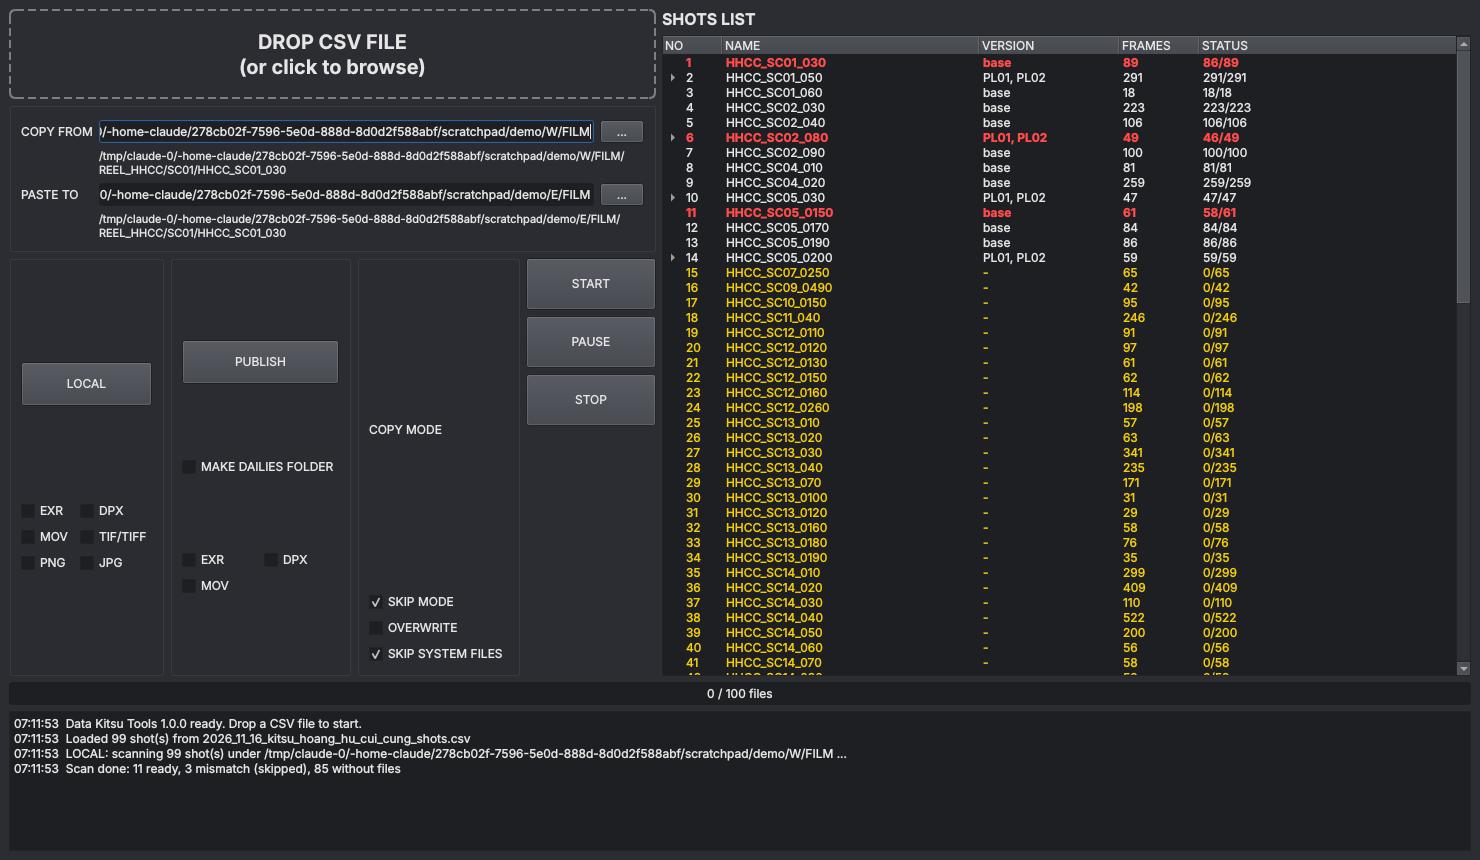
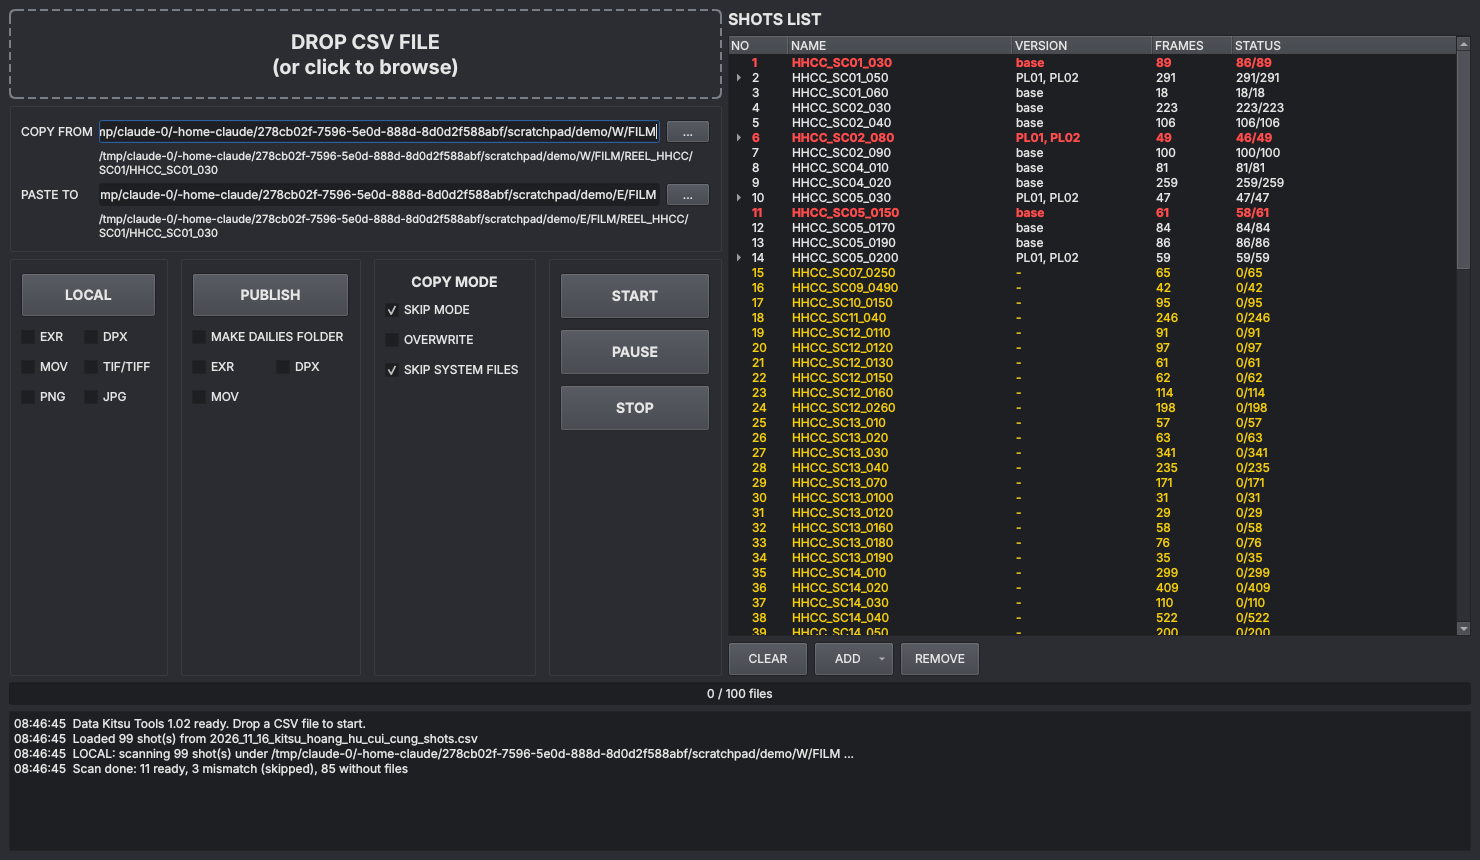
Version 1.02: shot list buttons, context menu, aligned controls
Claude-Session: https://claude.ai/code/session_011SLvPhLiND6NqdJ4XBPJJz

diff --git a/data_kitsu_tools.py b/data_kitsu_tools.py
@@ -27,17 +27,17 @@ from concurrent.futures import ThreadPoolExecutor, as_completed
 from dataclasses import dataclass, field
 from pathlib import Path
 
-from PySide6.QtCore import Qt, QThread, Signal
-from PySide6.QtGui import QBrush, QColor, QPalette
+from PySide6.QtCore import Qt, QThread, QUrl, Signal
+from PySide6.QtGui import QBrush, QColor, QDesktopServices, QPalette
 from PySide6.QtWidgets import (
     QAbstractItemView, QApplication, QCheckBox, QFileDialog, QFrame,
     QGridLayout, QGroupBox, QHBoxLayout, QHeaderView, QLabel, QLineEdit,
     QMainWindow, QMessageBox, QPlainTextEdit, QProgressBar, QPushButton,
-    QTreeWidget, QTreeWidgetItem, QVBoxLayout, QWidget,
+    QTreeWidget, QTreeWidgetItem, QVBoxLayout, QWidget, QMenu, QInputDialog,
 )
 
 APP_NAME = "Data Kitsu Tools"
-APP_VERSION = "1.01"
+APP_VERSION = "1.02"
 
 BUFFER_SIZE = 8 * 1024 * 1024   # 8 MB chunks: fewer, larger I/O calls
 MAX_WORKERS = 4                 # parallel file copies per shot
@@ -70,6 +70,8 @@ C_GREY = "#8a8f98"
 C_ORANGE = "#ff9f43"
 
 COLUMNS = 5
+ROLE_INDEX = int(Qt.ItemDataRole.UserRole) + 1   # shot index stored on top rows
+ROLE_PATH = int(Qt.ItemDataRole.UserRole) + 2    # folder path stored on variant rows
 
 
 # ----------------------------------------------------------------------------
@@ -556,6 +558,13 @@ class DropZone(QFrame):
 class ShotTree(QTreeWidget):
     """SHOTS LIST. Accepts dropped folders (new shots) and CSV files (more shots)."""
     dropped = Signal(list)
+    deletePressed = Signal()
+
+    def keyPressEvent(self, event):
+        if event.key() == Qt.Key.Key_Delete:
+            self.deletePressed.emit()
+            return
+        super().keyPressEvent(event)
 
     def __init__(self):
         super().__init__()
@@ -641,35 +650,42 @@ class MainWindow(QMainWindow):
         self.paste_btn.clicked.connect(lambda: self.browse_dir(self.paste_edit))
 
         row = QHBoxLayout()
+        row.setSpacing(12)
         left.addLayout(row)
 
         # LOCAL box
         local_box = QGroupBox()
         lv = QVBoxLayout(local_box)
-        self.btn_local = QPushButton("LOCAL")
-        self.btn_local.setMinimumHeight(44)
+        lv.setSpacing(10)
+        self.btn_local = self._mode_button("LOCAL")
         self.btn_local.clicked.connect(lambda: self.start_scan(MODE_LOCAL))
         lv.addWidget(self.btn_local)
         self.local_checks = self._type_checks(LOCAL_TYPE_KEYS, lv)
-        row.addWidget(local_box)
+        lv.addStretch(1)
+        row.addWidget(local_box, 1)
 
         # PUBLISH box
         publish_box = QGroupBox()
         pv = QVBoxLayout(publish_box)
-        self.btn_publish = QPushButton("PUBLISH")
-        self.btn_publish.setMinimumHeight(44)
+        pv.setSpacing(10)
+        self.btn_publish = self._mode_button("PUBLISH")
         self.btn_publish.clicked.connect(lambda: self.start_scan(MODE_PUBLISH))
         pv.addWidget(self.btn_publish)
         self.chk_dailies = QCheckBox("MAKE DAILIES FOLDER")
         self.chk_dailies.toggled.connect(self._update_previews)
         pv.addWidget(self.chk_dailies)
         self.publish_checks = self._type_checks(PUBLISH_TYPE_KEYS, pv)
-        row.addWidget(publish_box)
+        pv.addStretch(1)
+        row.addWidget(publish_box, 1)
 
         # COPY MODE box
         mode_box = QGroupBox()
         mv = QVBoxLayout(mode_box)
-        mv.addWidget(QLabel("COPY MODE"))
+        mv.setSpacing(10)
+        mode_title = QLabel("COPY MODE")
+        mode_title.setAlignment(Qt.AlignmentFlag.AlignCenter)
+        mode_title.setStyleSheet("font-size: 14px; font-weight: bold;")
+        mv.addWidget(mode_title)
         self.chk_skip = QCheckBox("SKIP MODE")
         self.chk_skip.setChecked(True)
         self.chk_overwrite = QCheckBox("OVERWRITE")
@@ -678,20 +694,22 @@ class MainWindow(QMainWindow):
         mv.addWidget(self.chk_skip)
         mv.addWidget(self.chk_overwrite)
         mv.addWidget(self.chk_skip_sys)
+        mv.addStretch(1)
         self.chk_skip.toggled.connect(self._on_skip_toggled)
         self.chk_overwrite.toggled.connect(self._on_overwrite_toggled)
-        row.addWidget(mode_box)
+        row.addWidget(mode_box, 1)
 
-        # Action buttons
-        actions = QVBoxLayout()
-        self.btn_start = QPushButton("START")
-        self.btn_pause = QPushButton("PAUSE")
-        self.btn_stop = QPushButton("STOP")
+        # Action buttons: same size, stacked in one box
+        actions_box = QGroupBox()
+        av = QVBoxLayout(actions_box)
+        av.setSpacing(10)
+        self.btn_start = self._action_button("START")
+        self.btn_pause = self._action_button("PAUSE")
+        self.btn_stop = self._action_button("STOP")
         for b in (self.btn_start, self.btn_pause, self.btn_stop):
-            b.setMinimumSize(130, 52)
-            actions.addWidget(b)
-        actions.addStretch(1)
-        row.addLayout(actions)
+            av.addWidget(b)
+        av.addStretch(1)
+        row.addWidget(actions_box, 0)
         self.btn_start.clicked.connect(self.on_start)
         self.btn_pause.clicked.connect(self.on_pause)
         self.btn_stop.clicked.connect(self.on_stop)
@@ -721,6 +739,26 @@ class MainWindow(QMainWindow):
         self.tree.setColumnWidth(4, 120)
         right.addWidget(self.tree, 1)
 
+        tree_buttons = QHBoxLayout()
+        self.btn_clear = QPushButton("CLEAR")
+        self.btn_clear.clicked.connect(self.clear_shots)
+        self.btn_add = QPushButton("ADD")
+        add_menu = QMenu(self.btn_add)
+        add_menu.addAction("Add shot folder...", self.add_folder_shot)
+        add_menu.addAction("Add shot by name...", self.add_named_shot)
+        self.btn_add.setMenu(add_menu)
+        self.btn_remove = QPushButton("REMOVE")
+        self.btn_remove.clicked.connect(self.remove_selected)
+        for b in (self.btn_clear, self.btn_add, self.btn_remove):
+            b.setMinimumHeight(34)
+            tree_buttons.addWidget(b)
+        tree_buttons.addStretch(1)
+        right.addLayout(tree_buttons)
+
+        self.tree.setContextMenuPolicy(Qt.ContextMenuPolicy.CustomContextMenu)
+        self.tree.customContextMenuRequested.connect(self.on_tree_context_menu)
+        self.tree.deletePressed.connect(self.remove_selected)
+
         # Bottom: progress and log
         self.progress = QProgressBar()
         self.progress.setFormat("%v / %m files")
@@ -731,6 +769,20 @@ class MainWindow(QMainWindow):
         self.log_view.setMaximumHeight(140)
         outer.addWidget(self.progress)
         outer.addWidget(self.log_view)
+
+    @staticmethod
+    def _mode_button(text: str) -> QPushButton:
+        button = QPushButton(text)
+        button.setMinimumHeight(44)
+        button.setStyleSheet("font-size: 14px; font-weight: bold;")
+        return button
+
+    @staticmethod
+    def _action_button(text: str) -> QPushButton:
+        button = QPushButton(text)
+        button.setMinimumSize(150, 46)
+        button.setStyleSheet("font-size: 14px; font-weight: bold;")
+        return button
 
     def _type_checks(self, keys, layout) -> dict:
         grid = QGridLayout()
@@ -798,6 +850,9 @@ class MainWindow(QMainWindow):
         self.btn_start.setEnabled(not busy)
         self.btn_pause.setEnabled(self._running)
         self.btn_stop.setEnabled(self._running)
+        self.btn_clear.setEnabled(not busy)
+        self.btn_remove.setEnabled(not busy)
+        self.btn_add.setEnabled(not self._scanning)
         self.drop_zone.setEnabled(not self._running)
         for w in (self.copy_edit, self.paste_edit, self.copy_btn, self.paste_btn,
                   self.chk_dailies, self.chk_skip, self.chk_overwrite, self.chk_skip_sys,
@@ -863,18 +918,127 @@ class MainWindow(QMainWindow):
         self.refresh_tree()
         self._update_previews()
 
+    # ---------- add / remove / clear / context menu ----------
+    def add_folder_shot(self):
+        if self._scanning:
+            return
+        folder = QFileDialog.getExistingDirectory(self, "Select a shot folder")
+        if folder:
+            self.on_tree_dropped([Path(folder)])
+
+    def add_named_shot(self):
+        if self._scanning:
+            return
+        name, ok = QInputDialog.getText(self, APP_NAME, "Shot name (e.g. HHCC_SC07_0250):")
+        name = name.strip() if ok else ""
+        if not name:
+            return
+        if "/" in name or "\\" in name:
+            QMessageBox.warning(self, APP_NAME, "Shot name cannot contain / or \\.")
+            return
+        if any(s.name == name for s in self.shots):
+            self.log(f"Shot {name} is already in the list.")
+            return
+        frames, ok = QInputDialog.getInt(self, APP_NAME, f"Frames for {name}:", 0, 0, 1000000)
+        if not ok:
+            return
+        self.shots.append(Shot(name=name, frames=frames))
+        self.log(f"Added shot {name} ({frames} frames)")
+        self.refresh_tree()
+        self._update_previews()
+
+    def remove_selected(self):
+        if self._busy():
+            self.log("Cannot remove shots while scanning or copying.")
+            return
+        indices = set()
+        for item in self.tree.selectedItems():
+            owner = item if item.parent() is None else item.parent()
+            index = owner.data(1, ROLE_INDEX)
+            if index is not None:
+                indices.add(index)
+        if not indices:
+            self.log("Select one or more shots first.")
+            return
+        names = [self.shots[i].name for i in sorted(indices)]
+        preview = "\n".join(names[:10]) + ("\n..." if len(names) > 10 else "")
+        answer = QMessageBox.question(self, APP_NAME,
+                                      f"Remove {len(indices)} shot(s) from the list?\n\n{preview}")
+        if answer != QMessageBox.StandardButton.Yes:
+            return
+        for index in sorted(indices, reverse=True):
+            del self.shots[index]
+        self.log(f"Removed {len(indices)} shot(s)")
+        self.refresh_tree()
+        self._update_previews()
+
+    def clear_shots(self):
+        if self._busy() or not self.shots:
+            return
+        answer = QMessageBox.question(self, APP_NAME, "Clear the whole shot list?")
+        if answer != QMessageBox.StandardButton.Yes:
+            return
+        self.shots = []
+        self.scan_config = None
+        self.current_mode = MODE_LOCAL
+        self._expanded.clear()
+        self.log("Shot list cleared.")
+        self.refresh_tree()
+        self._update_previews()
+
+    def _item_path(self, item: QTreeWidgetItem):
+        """Folder that a row points to: the variant folder, or the shot's first folder."""
+        if item.parent() is not None:
+            value = item.data(1, ROLE_PATH)
+            return Path(value) if value else None
+        index = item.data(1, ROLE_INDEX)
+        if index is None or index >= len(self.shots):
+            return None
+        scan = self.shots[index].scan
+        return scan.units[0].path if scan and scan.units else None
+
+    def on_tree_context_menu(self, pos):
+        item = self.tree.itemAt(pos)
+        if item is None:
+            return
+        path = self._item_path(item)
+        menu = QMenu(self)
+        act_open = menu.addAction("Open in Explorer")
+        act_copy = menu.addAction("Copy path")
+        act_open.setEnabled(path is not None)
+        act_copy.setEnabled(path is not None)
+        menu.addSeparator()
+        act_remove = menu.addAction("Remove")
+        act_remove.setEnabled(not self._busy())
+        chosen = menu.exec(self.tree.viewport().mapToGlobal(pos))
+        if chosen is act_open:
+            self.open_path(path)
+        elif chosen is act_copy:
+            QApplication.clipboard().setText(str(path))
+            self.log(f"Copied path: {path}")
+        elif chosen is act_remove:
+            self.remove_selected()
+
+    def open_path(self, path: Path):
+        if not path.exists():
+            QMessageBox.warning(self, APP_NAME, f"Folder not found:\n{path}")
+            return
+        QDesktopServices.openUrl(QUrl.fromLocalFile(str(path)))
+
     def refresh_tree(self):
         self.tree.clear()
         self.items = {}
         for i, shot in enumerate(self.shots):
             top = QTreeWidgetItem(self.tree)
             top.setData(0, Qt.ItemDataRole.UserRole, shot.name)
+            top.setData(1, ROLE_INDEX, i)
             self.items[i] = top
             self._fill_top(top, i, shot)
             if shot.scan and len(shot.scan.units) > 1:
                 for unit in shot.scan.units:
                     child = QTreeWidgetItem(top)
                     child.setText(1, unit.path.name)
+                    child.setData(1, ROLE_PATH, str(unit.path))
                     child.setText(2, unit.label)
                     child.setText(3, str(shot.frames))
                     child.setText(4, f"{unit.found}/{shot.frames}")

diff --git a/README.vi.md b/README.vi.md
@@ -15,6 +15,8 @@ với đúng cấu trúc folder của nguồn. Không cần cài đặt phức t
 - **Đọc CSV Kitsu**: kéo thả hoặc bấm vào khung *DROP CSV FILE* để nạp danh sách shot (cột `Name` và `Frames`).
   Hỗ trợ dấu `;` hoặc `,`, mã hóa UTF-8, cp1258 (tiếng Việt) và UTF-16.
 - **Shots List**: hiển thị NO, NAME, VERSION, FRAMES, STATUS. Có thể kéo thả thêm folder shot hoặc file CSV mới vào danh sách trong lúc đang copy.
+  - Nút dưới danh sách: **CLEAR** (xóa hết), **ADD** (thêm folder shot hoặc gõ tên shot), **REMOVE** (xóa shot đang chọn; phím Delete cũng được).
+  - Chuột phải vào shot: **Open in Explorer**, **Copy path**, **Remove**.
 - **Scan kiểm tra trước khi copy**:
   - Tìm folder theo tên shot ở mọi cấp sub folder của COPY FROM.
   - Số frame thực tế so với cột Frames. Lệch frame thì dòng chuyển đỏ và shot bị bỏ qua.
@@ -95,6 +97,7 @@ python3 data_kitsu_tools.py
 ## My Modification update
 
 - [26-11-18]
+  - **Version 1.02:** Nút CLEAR / ADD / REMOVE trong danh sách shot, menu chuột phải (Open in Explorer, Copy path, Remove), và căn chỉnh lại các nút chế độ và nút điều khiển.
   - **Version 1.01:** quy tắc đánh số (cùng ngày = 1.0N, sang ngày mới = 1.1, sau đó 1.1.N). Updater so sánh phiên bản theo thứ tự này.
   - **Version 1.0:** phiên bản đặt tên đầu tiên. Hiện trên tiêu đề cửa sổ và trong file `VERSION`.
   - **Updater:** `updater.py` kiểm tra GitHub mỗi lần mở và hiện thông báo cập nhật. Trả lời `y` để cập nhật bản mới nhất từ GitHub (git pull, hoặc tải zip nếu thư mục không phải git clone). Dùng `--no-update` để bỏ qua kiểm tra.

diff --git a/README.md b/README.md
@@ -13,6 +13,8 @@ A tool that copies shot data for a Kitsu pipeline. It reads the shot list from a
 - **Read Kitsu CSV**: drag and drop, or click the *DROP CSV FILE* box, to load the shot list (the `Name` and `Frames` columns).
   Supports `;` or `,` separators, UTF-8, cp1258 (Vietnamese) and UTF-16.
 - **Shots List**: shows NO, NAME, VERSION, FRAMES, STATUS. You can drag more shot folders or CSV files into the list while a copy is running.
+  - Buttons under the list: **CLEAR** (empty the list), **ADD** (add a shot folder or type a shot name), **REMOVE** (remove the selected shots; Delete key works too).
+  - Right-click a shot: **Open in Explorer**, **Copy path**, **Remove**.
 - **Scan before copying**:
   - Finds the shot folders by name at any depth under COPY FROM.
   - Compares the real frame count with the Frames column. If they differ, the row turns red and the shot is skipped.
@@ -87,6 +89,7 @@ python3 data_kitsu_tools.py
 ## My Modification update
 
 - [26-11-18]
+  - **Version 1.02:** Shot list buttons CLEAR / ADD / REMOVE, right-click menu (Open in Explorer, Copy path, Remove), and aligned mode and action buttons.
   - **Version 1.01:** versioning rule (same-day edits = 1.0N, next day = 1.1, then 1.1.N). Updater now compares versions in this order.
   - **Version 1.0:** first named version. Shown in the window title and in the `VERSION` file.
   - **Updater:** `updater.py` checks GitHub on each launch and shows an update notice. Answer `y` to update to the latest version from GitHub (git pull, or a zip download if the folder is not a git clone). Use `--no-update` to skip the check.
